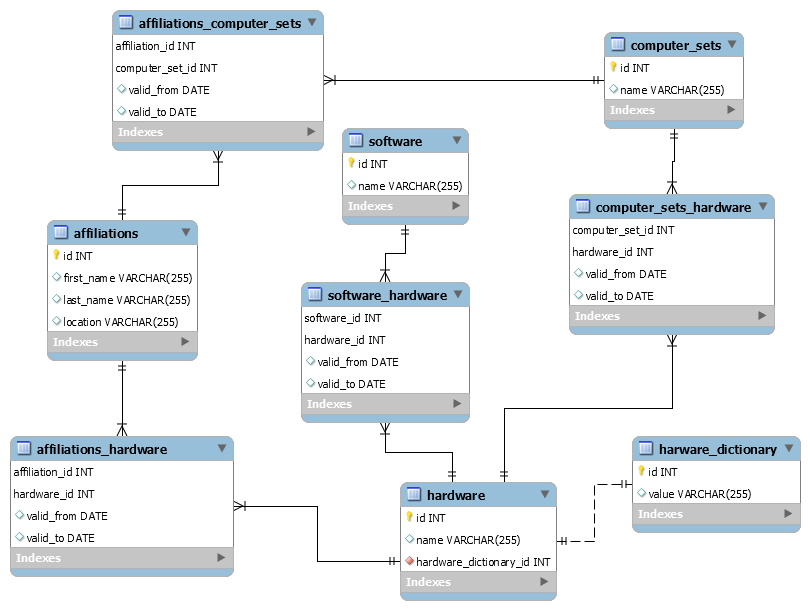
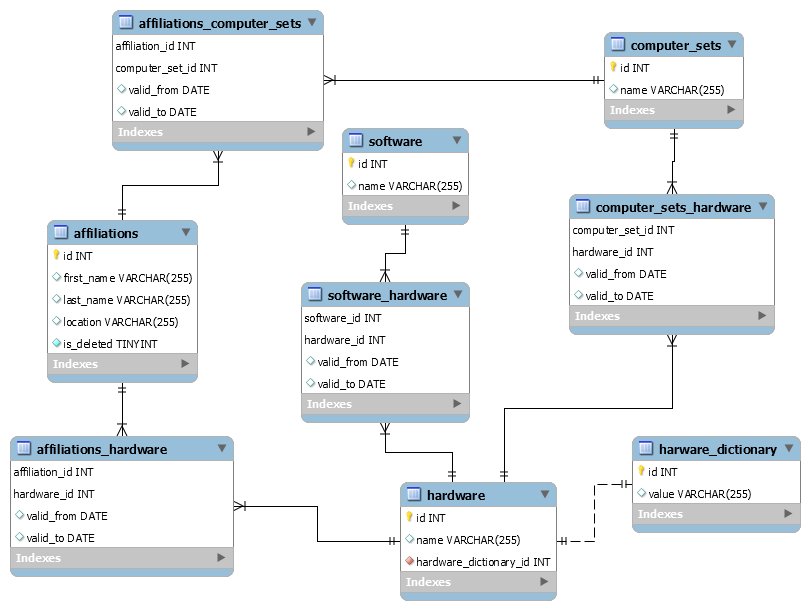
Aktualizacja kolumny 'is_deleted'

Changed region(s): [[0.0309, 0.5295, 0.2469, 0.6541], [0.463, 0.8721, 0.4938, 0.9344]]

diff --git a/backend/src/main/java/org/polsl/backend/entity/Affiliation.java b/backend/src/main/java/org/polsl/backend/entity/Affiliation.java
@@ -6,6 +6,7 @@ import javax.persistence.GenerationType;
 import javax.persistence.Id;
 import javax.persistence.OneToMany;
 import javax.persistence.Table;
+import javax.validation.constraints.NotNull;
 import java.util.Set;
 
 /**
@@ -30,6 +31,7 @@ public class Affiliation {
   @OneToMany(mappedBy = "affiliation")
   private Set<AffiliationComputerSet> affiliationComputerSetSet;
 
+  @NotNull
   private Boolean isDeleted;
 
   public Affiliation() {
